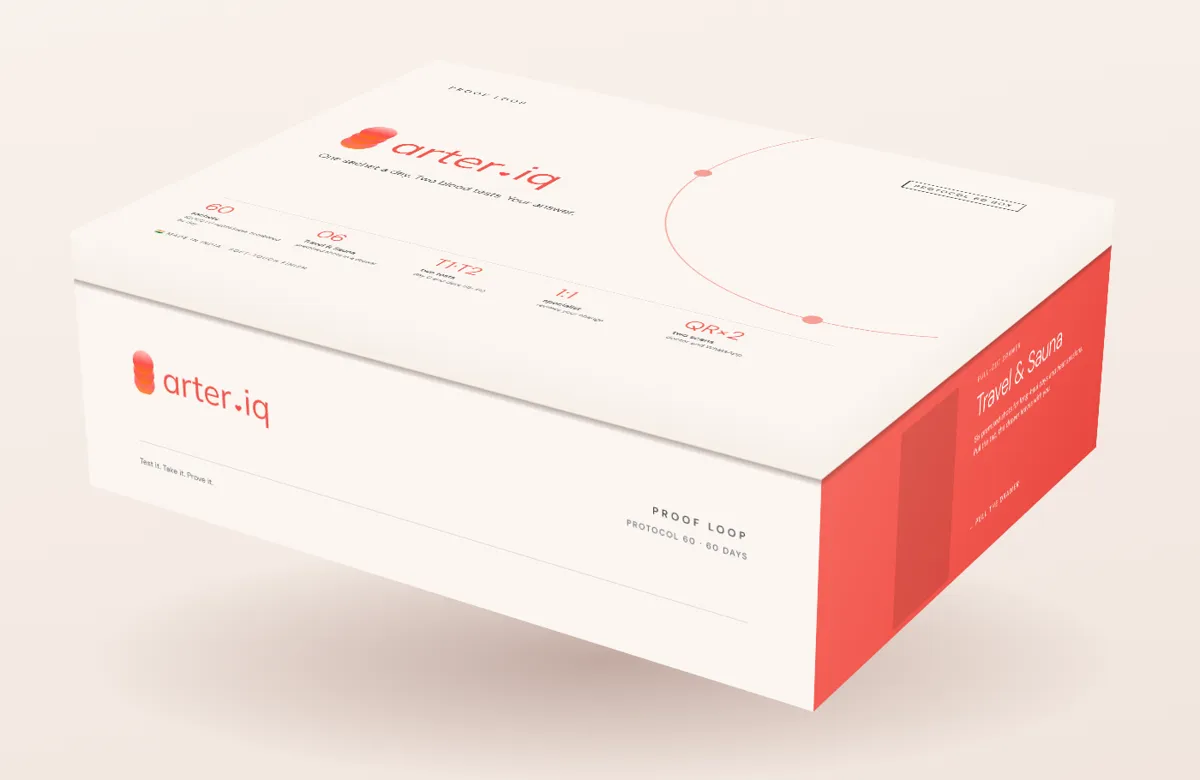
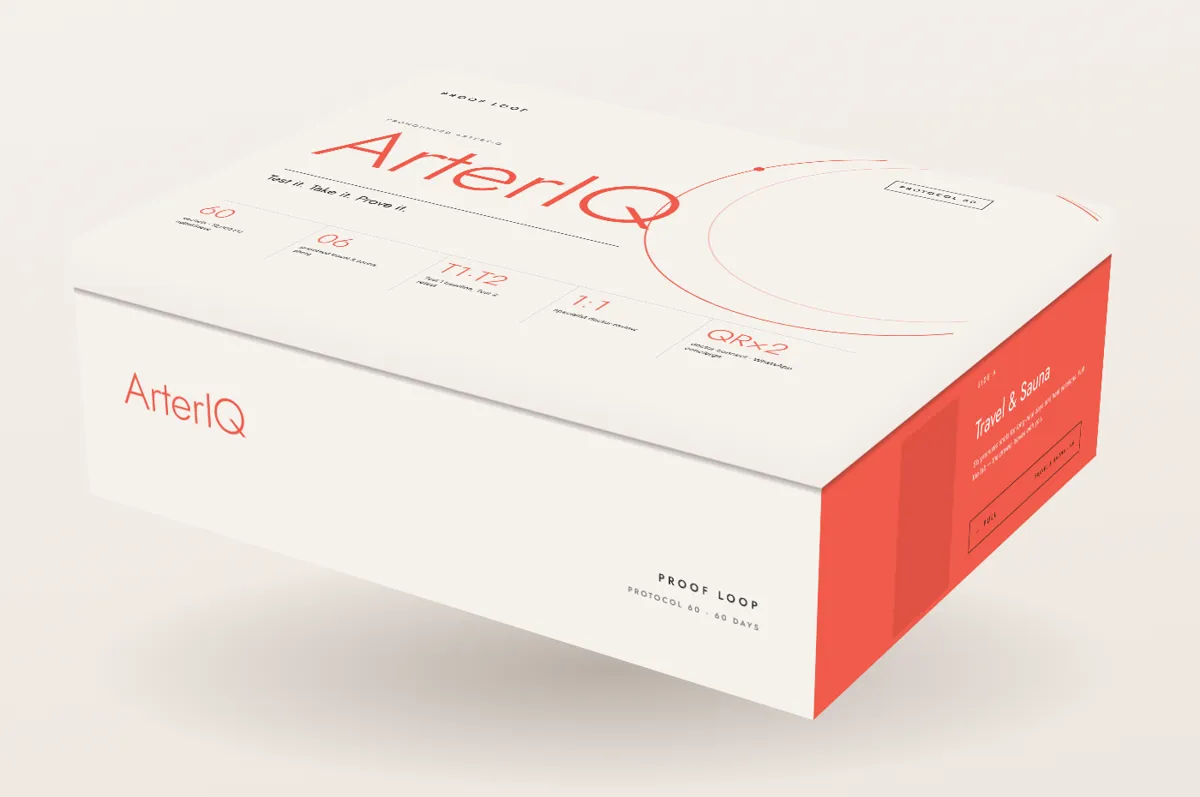
Use team-deck Protocol 60 Box design; keep flavour picker
Claude-Session: https://claude.ai/code/session_01PkeobWmfrChtD7SqVdFZLv

diff --git a/index.html b/index.html
@@ -694,7 +694,7 @@ a{color:#4A5163}a:hover{color:#E63E3E}
 .offrow{grid-template-columns:minmax(0,1fr)!important;gap:22px!important}
 .p60{display:grid;grid-template-columns:minmax(0,1.05fr) minmax(0,1fr);border-radius:40px;overflow:hidden;background:rgba(255,255,255,.96);border:1px solid rgba(255,255,255,.95);box-shadow:0 50px 100px -40px rgba(160,40,40,.35)}
 .p60v{position:relative;display:flex;flex-direction:column;justify-content:center;gap:16px;padding:18px;background:linear-gradient(170deg,#FBF6F1,#EFE2DA);overflow:hidden}.p60img{position:relative;aspect-ratio:1/1.01;border-radius:26px;overflow:hidden}
-.p60v .flimg{object-fit:cover;object-position:50% 40%}
+.p60main{position:absolute;inset:0;width:100%;height:100%;object-fit:cover;object-position:50% 45%}.p60v .flsach{inset:auto;right:5%;bottom:5%;width:44%;height:auto;object-fit:contain;border-radius:6px;box-shadow:0 24px 40px -18px rgba(60,30,20,.45);transform:translateY(10px) rotate(-4deg);z-index:2}.p60v .flsach.on{transform:rotate(-4deg)}
 .p60badge{position:absolute;left:34px;top:34px;z-index:2;padding:9px 14px;border-radius:999px;background:rgba(255,255,255,.9);font-size:13px;color:#4A5163}
 .p60badge b{font-weight:500}
 .p60t{position:relative;display:grid;grid-template-columns:1fr 1fr;gap:12px}
@@ -939,12 +939,12 @@ a{color:#4A5163}a:hover{color:#E63E3E}
 <div class="offhead"><p class="mono">Choose how you start</p><h2 class="disp h2">Two ways to <span class="grad">take the leap.</span></h2></div>
 <div class="offrow">
 <div class="p60 rise">
-<div class="p60v"><div class="p60img"><img class="flimg" data-fli="chocolate" src="images/p60-open-chocolate.webp" alt="Proof Loop Protocol 60 Box opened, Chocolate inside" loading="lazy" decoding="async"><img class="flimg on" data-fli="orange" src="images/p60-open-orange.webp" alt="Proof Loop Protocol 60 Box opened, Orange inside" loading="lazy" decoding="async"><img class="flimg" data-fli="unflavoured" src="images/p60-open-unflavoured.webp" alt="Proof Loop Protocol 60 Box opened, Unflavoured inside" loading="lazy" decoding="async"></div><span class="p60badge">Inside your box · <b data-flname>Orange</b></span>
+<div class="p60v"><div class="p60img"><img class="p60main" src="images/p60-open.webp" alt="Proof Loop Protocol 60 Box, open: coral lid tracker, sachets, kits and shots" loading="lazy" decoding="async"><img class="flimg flsach" data-fli="chocolate" src="images/sachet-chocolate.webp" alt="Chocolate day-numbered sachet" loading="lazy" decoding="async"><img class="flimg flsach on" data-fli="orange" src="images/sachet-orange.webp" alt="Orange day-numbered sachet" loading="lazy" decoding="async"><img class="flimg flsach" data-fli="unflavoured" src="images/sachet-unflavoured.webp" alt="Unflavoured day-numbered sachet" loading="lazy" decoding="async"></div><span class="p60badge">Your sachets · <b data-flname>Orange</b></span>
 <div class="p60t"><figure><img src="images/p60-closed.webp" alt="Closed Protocol 60 Box" loading="lazy" decoding="async"><figcaption>Same box outside</figcaption></figure><figure><img src="images/p60-drawer.webp" alt="Travel and Sauna drawer pulled out" loading="lazy" decoding="async"><figcaption>Travel &amp; Sauna drawer</figcaption></figure></div></div>
 <div class="obody">
 <p style="margin:0;font-size:14px;color:#6A7080"><span style="display:inline-flex;gap:2px" role="img" aria-label="5 out of 5 stars"><svg width="13" height="13" viewBox="0 0 24 24" fill="#FF9C80" aria-hidden="true"><path d="M12 2.5l2.9 6 6.6.8-4.9 4.6 1.3 6.6L12 17.3l-5.9 3.2 1.3-6.6L2.5 9.3l6.6-.8L12 2.5Z"></path></svg><svg width="13" height="13" viewBox="0 0 24 24" fill="#FF9C80" aria-hidden="true"><path d="M12 2.5l2.9 6 6.6.8-4.9 4.6 1.3 6.6L12 17.3l-5.9 3.2 1.3-6.6L2.5 9.3l6.6-.8L12 2.5Z"></path></svg><svg width="13" height="13" viewBox="0 0 24 24" fill="#FF9C80" aria-hidden="true"><path d="M12 2.5l2.9 6 6.6.8-4.9 4.6 1.3 6.6L12 17.3l-5.9 3.2 1.3-6.6L2.5 9.3l6.6-.8L12 2.5Z"></path></svg><svg width="13" height="13" viewBox="0 0 24 24" fill="#FF9C80" aria-hidden="true"><path d="M12 2.5l2.9 6 6.6.8-4.9 4.6 1.3 6.6L12 17.3l-5.9 3.2 1.3-6.6L2.5 9.3l6.6-.8L12 2.5Z"></path></svg><svg width="13" height="13" viewBox="0 0 24 24" fill="#FF9C80" aria-hidden="true"><path d="M12 2.5l2.9 6 6.6.8-4.9 4.6 1.3 6.6L12 17.3l-5.9 3.2 1.3-6.6L2.5 9.3l6.6-.8L12 2.5Z"></path></svg></span> <span class="cnt" style="--to:30"></span>+ doctors across India recommend Arter.IQ</p>
 <div><p class="mono" style="margin:0 0 8px">Proof Loop Protocol 60 Box</p><h2 class="disp h2" style="font-size:44px;margin:0">One sachet a day, <span class="grad">proven in 60.</span></h2></div>
-<div class="ostep"><p class="opl"><span class="osn">1</span>Pick your flavour</p><div class="flr3" role="group" aria-label="Flavour"><button class="flc" type="button" data-fl="chocolate" data-fln="Chocolate" style="--fc:#5B3424" aria-pressed="false"><span class="fld"></span><span class="fln">Chocolate</span><span class="flt">Rich cocoa</span></button><button class="flc on" type="button" data-fl="orange" data-fln="Orange" style="--fc:#F28A1E" aria-pressed="true"><span class="fld"></span><span class="fln">Orange</span><span class="flt">Bright citrus</span></button><button class="flc" type="button" data-fl="unflavoured" data-fln="Unflavoured" style="--fc:#FC5050" aria-pressed="false"><span class="fld"></span><span class="fln">Unflavoured</span><span class="flt">Mix into anything</span></button></div><p class="fls1">Same 10,000 FU in every sachet. The box looks the same outside; the inside, sachets and shots are your flavour.</p></div>
+<div class="ostep"><p class="opl"><span class="osn">1</span>Pick your flavour</p><div class="flr3" role="group" aria-label="Flavour"><button class="flc" type="button" data-fl="chocolate" data-fln="Chocolate" style="--fc:#5B3424" aria-pressed="false"><span class="fld"></span><span class="fln">Chocolate</span><span class="flt">Rich cocoa</span></button><button class="flc on" type="button" data-fl="orange" data-fln="Orange" style="--fc:#F28A1E" aria-pressed="true"><span class="fld"></span><span class="fln">Orange</span><span class="flt">Bright citrus</span></button><button class="flc" type="button" data-fl="unflavoured" data-fln="Unflavoured" style="--fc:#FC5050" aria-pressed="false"><span class="fld"></span><span class="fln">Unflavoured</span><span class="flt">Mix into anything</span></button></div><p class="fls1">Same 10,000 FU in every sachet. Same Protocol 60 Box for every flavour. Only your 60 sachets and 6 shots change.</p></div>
 <div class="ostep"><p class="opl"><span class="osn">2</span>What's in your box</p>
 <div class="oline"><span class="oicon"><svg width="20" height="20" viewBox="0 0 24 24" fill="none" stroke="currentColor" stroke-width="1.7" stroke-linecap="round" stroke-linejoin="round" aria-hidden="true"><path d="M12 20s-7-4.3-8.8-8.6C2 8.3 4 5 7.2 5c2 0 3.3 1.1 4.8 2.8C13.5 6.1 14.8 5 16.8 5 20 5 22 8.3 20.8 11.4 19 15.7 12 20 12 20Z"></path></svg></span><span><strong>60 sachets, numbered by day</strong><br><span class="osub">10,000 FU nattokinase · <span data-flname>Orange</span></span></span><span></span></div>
 <div class="oline"><span class="oicon"><svg width="20" height="20" viewBox="0 0 24 24" fill="none" stroke="currentColor" stroke-width="1.7" stroke-linecap="round" stroke-linejoin="round" aria-hidden="true"><path d="M3 7h11v9H3zM14 10h4l3 3v3h-7"></path><circle cx="7" cy="18" r="1.6"></circle><circle cx="17" cy="18" r="1.6"></circle></svg></span><span><strong>6 Travel &amp; Sauna shots</strong><br><span class="osub">In a pull-out drawer that travels with you</span></span><span></span></div>
